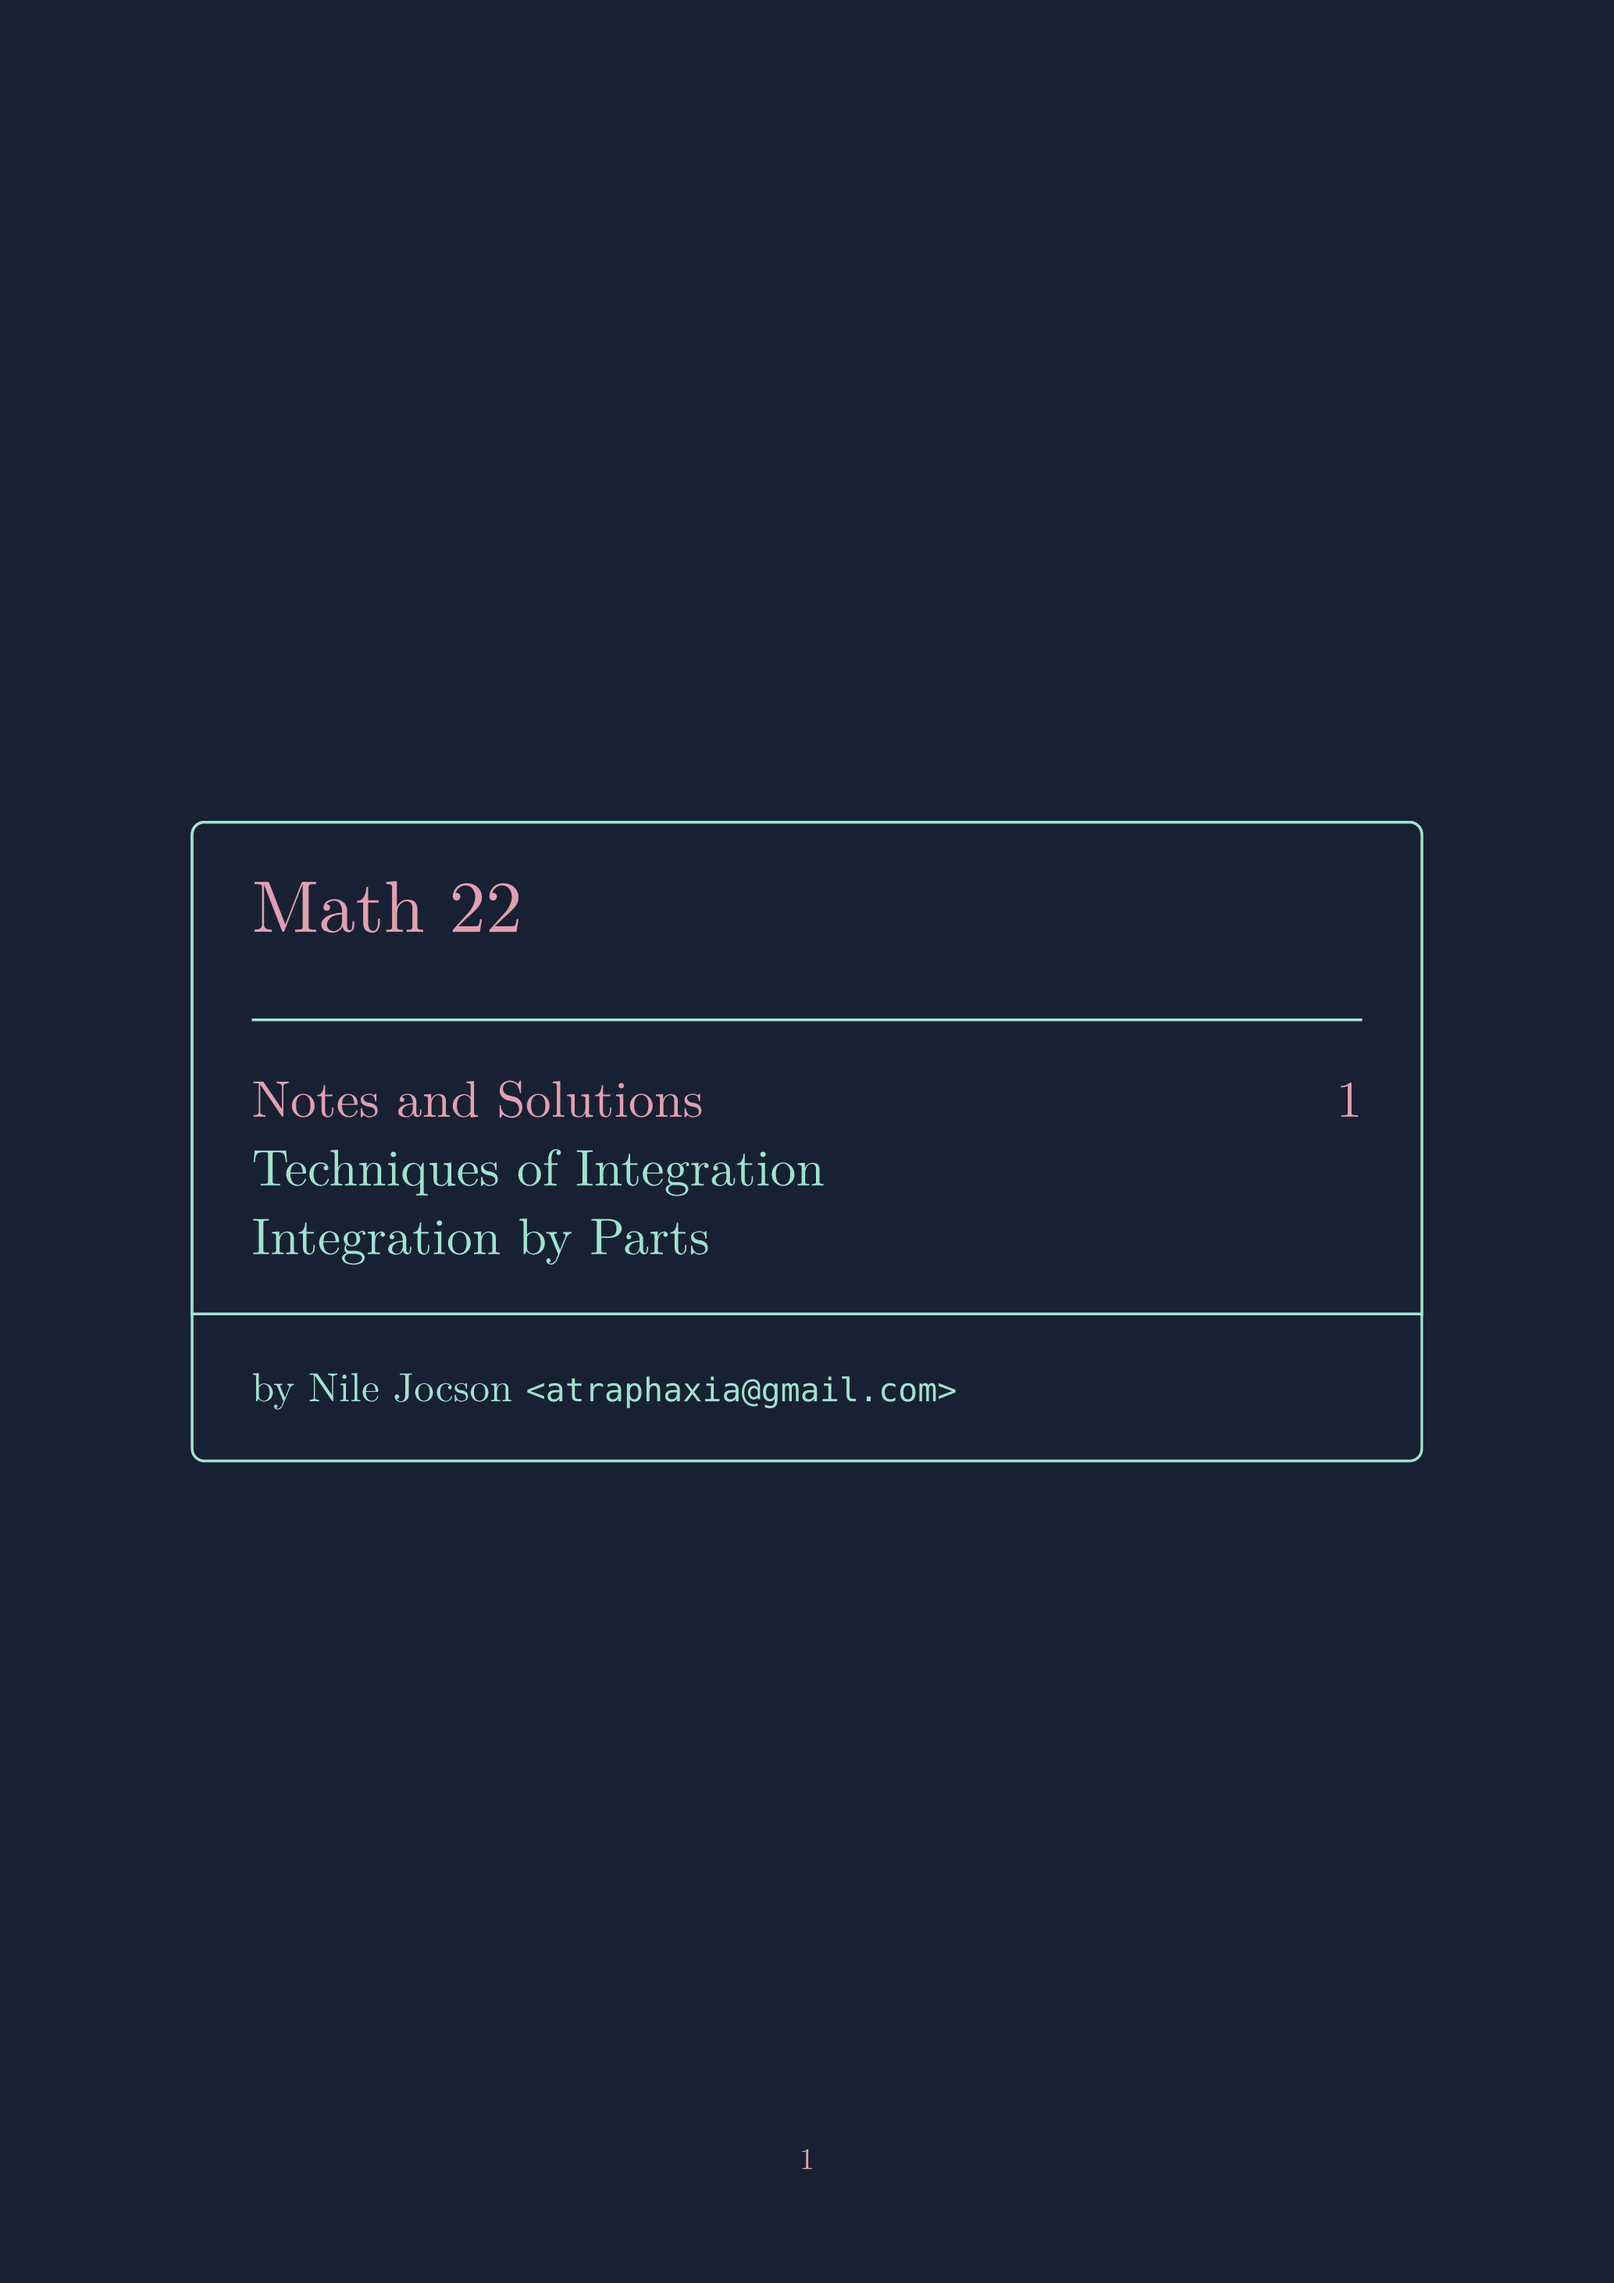
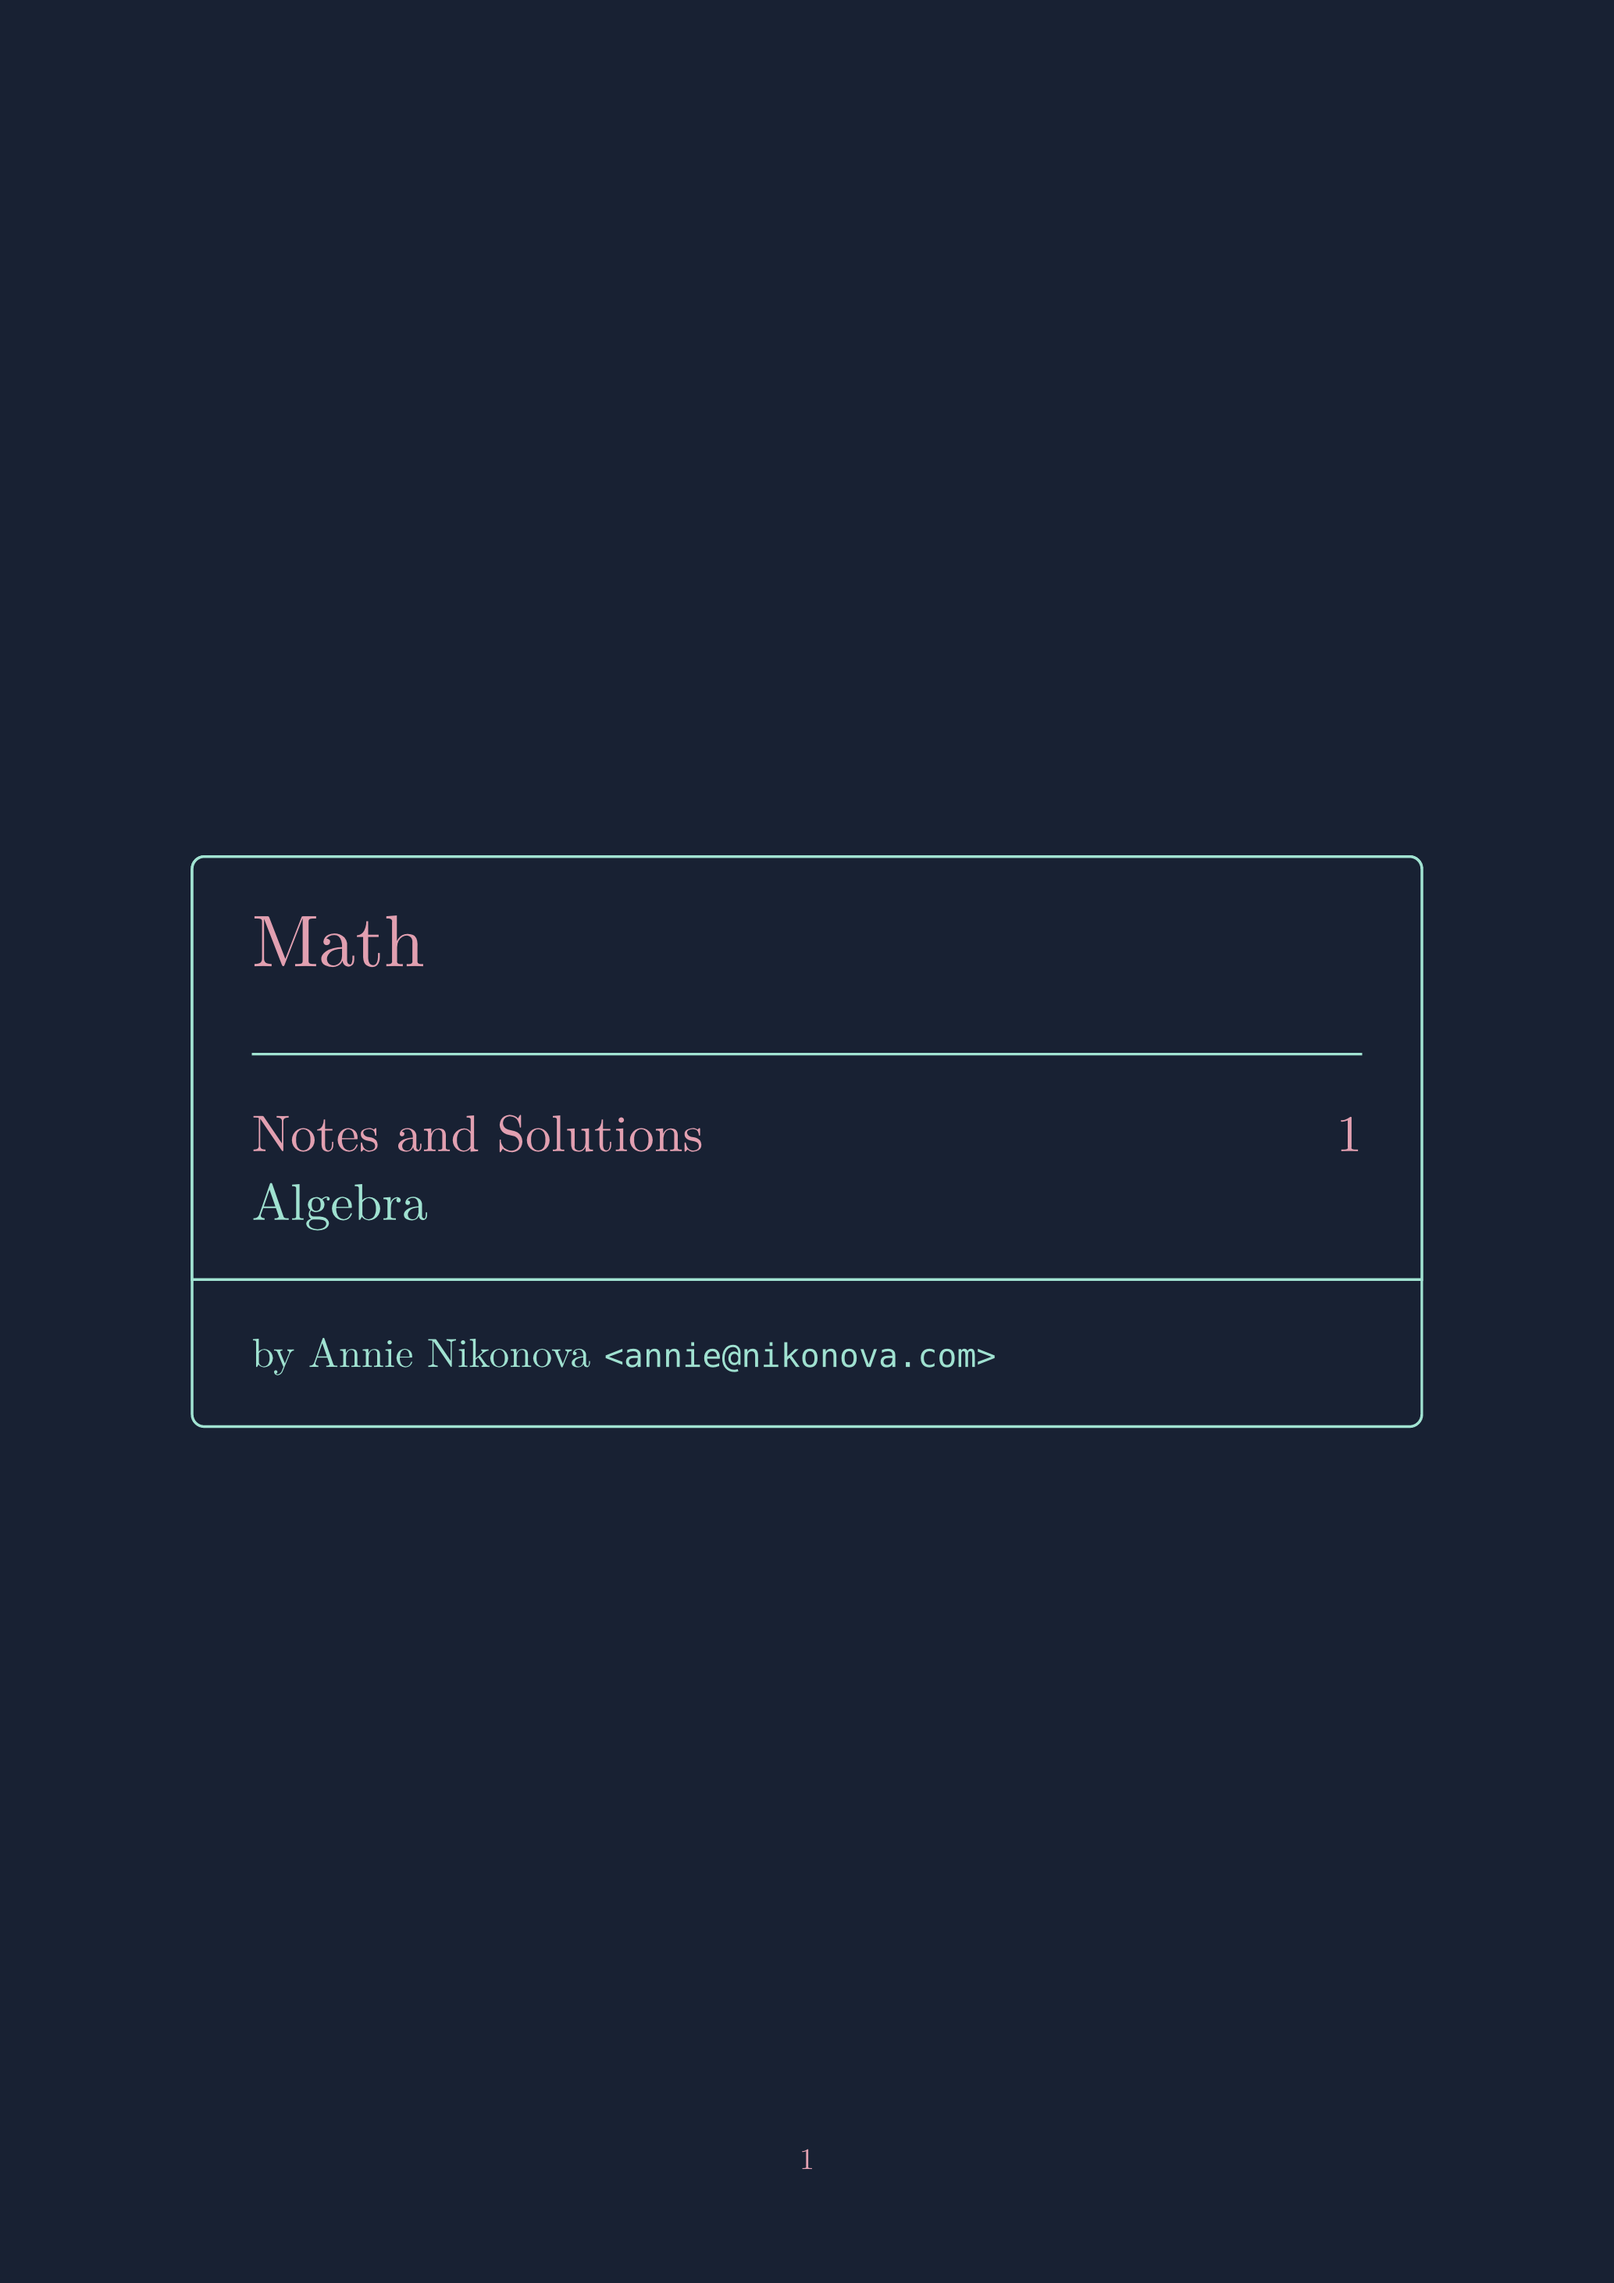
Add changelog, regenerate thumbnail, update version to 0.1.1

Changed region(s): [[0.1239, 0.467, 0.867, 0.6538], [0.1548, 0.3736, 0.2477, 0.4359], [0.2787, 0.3736, 0.3406, 0.4047]]

diff --git a/README.md b/README.md
@@ -8,17 +8,16 @@ a unique dark color theme.
 ## Usage
 
 ```typ
-#import "@preview/nikonova:0.1.0": nikonova, nikonova-problem as problem, nikonova-final as final
+#import "@preview/nikonova:0.1.1": nikonova, nikonova-problem as problem, nikonova-final as final
 
 #show: nikonova.with(
-	title: "Math 22",
+	title: "Math",
 	subtitle: "Notes and Solutions",
-	subsubtitle: [
-		Techniques of Integration \
-		Integration by Parts
-	],
+	subsubtitle: "Algebra",
 	number: "1",
-	email: "atraphaxia@gmail.com",
+	author: "Annie Nikonova",
+	email: "annie@nikonova.com",
+	font: "New Computer Modern",
 	bg-color: rgb("#182133"),
 	fg-color: rgb("#a1e3d2"),
 	emph-color: rgb("#e3a1b2")

diff --git a/CHANGELOG.md b/CHANGELOG.md
@@ -1,0 +1,13 @@
+# nikonova changelog
+
+## 0.1.1
+
+- `nikonova-box()` is now always breakable. This fixes issues for long outlines and problems.
+- Added `title` and `level` parameters to `nikonova-problem()`. This controls the title and level of the problem heading.
+- Changed default values of `nikonova()`.
+- Set `author` and `font` in template.
+- Removed license header from template.
+
+## 0.1.0
+
+Initial version
